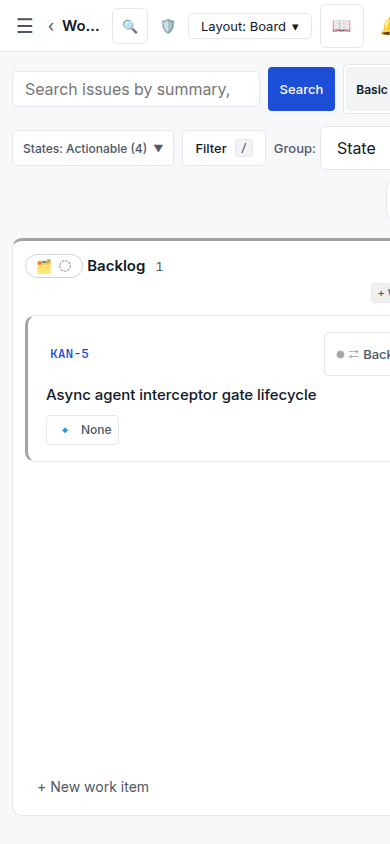
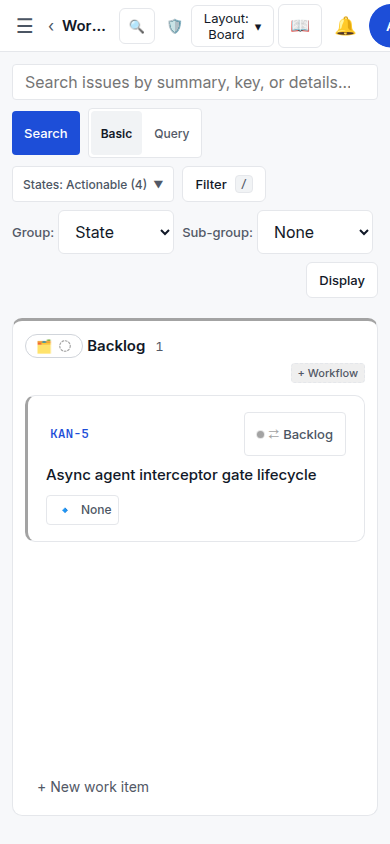
fix(board-ui): resolve 390x844 mobile horizontal overflow and drawer state select width

diff --git a/kanban/web/src/features/views/filterBulk.css b/kanban/web/src/features/views/filterBulk.css
@@ -946,6 +946,62 @@
   flex-shrink: 0;
 }
 
+@media (max-width: 767px) {
+  .filter-display-bar {
+    min-width: 0;
+    max-width: 100%;
+    width: 100%;
+    box-sizing: border-box;
+    flex-wrap: wrap;
+    gap: var(--space-2, 8px);
+  }
+
+  .filter-search-form {
+    min-width: 0;
+    max-width: 100%;
+    width: 100%;
+    flex: 1 1 100%;
+    flex-wrap: wrap;
+    box-sizing: border-box;
+    gap: var(--space-1, 4px);
+  }
+
+  .filter-search-form .navigator-search-input,
+  .filter-search-form .navigator-query-input {
+    min-width: 0;
+    width: 100%;
+    flex: 1 1 100%;
+    box-sizing: border-box;
+  }
+
+  .filter-controls-group {
+    min-width: 0;
+    max-width: 100%;
+    width: 100%;
+    flex-wrap: wrap;
+    box-sizing: border-box;
+    gap: var(--space-2, 8px);
+  }
+
+  .filter-controls-group > * {
+    min-width: 0;
+    max-width: 100%;
+    flex-shrink: 1;
+  }
+
+  .filter-axis-select-wrap {
+    min-width: 0;
+    max-width: 100%;
+    flex-wrap: wrap;
+  }
+
+  .filter-axis-select {
+    min-width: 0;
+    max-width: 100%;
+    box-sizing: border-box;
+  }
+}
+
 @media (max-width: 640px) {
   .filter-search-form {
     flex-wrap: wrap;

diff --git a/kanban/web/src/features/board/board.css b/kanban/web/src/features/board/board.css
@@ -111,12 +111,40 @@
 }
 
 @media (max-width: 767px) {
-  .board-column {
-    scroll-snap-align: start;
-    flex: 0 0 calc(100% - 0px);
+  .kb-main-canvas:has(.board-canvas) {
+    padding: 12px;
+    min-width: 0;
+    max-width: 100vw;
     width: 100%;
+    box-sizing: border-box;
+    overflow-x: hidden;
+  }
+
+  .board-canvas {
     min-width: 0;
     max-width: 100%;
+    width: 100%;
+    box-sizing: border-box;
+    overflow-x: hidden;
+  }
+
+  .board-lanes {
+    scroll-snap-type: x proximity;
+    min-width: 0;
+    max-width: 100%;
+    width: 100%;
+    box-sizing: border-box;
+    overflow-x: auto;
+    -webkit-overflow-scrolling: touch;
+  }
+
+  .board-column {
+    scroll-snap-align: start;
+    flex: 0 0 min(100%, calc(100vw - 24px));
+    width: min(100%, calc(100vw - 24px));
+    min-width: 0;
+    max-width: min(100%, calc(100vw - 24px));
+    box-sizing: border-box;
   }
 }
 

diff --git a/kanban/web/src/app/Topbar.css b/kanban/web/src/app/Topbar.css
@@ -425,6 +425,33 @@
   }
 }
 
+@media (max-width: 767px) {
+  .kb-topbar,
+  .topbar {
+    min-width: 0;
+    max-width: 100vw;
+    width: 100%;
+    box-sizing: border-box;
+    padding: 0 var(--space-2, 8px);
+    gap: 4px;
+    overflow: visible;
+  }
+
+  .kb-topbar-left {
+    min-width: 0;
+    flex: 0 1 auto;
+    overflow: hidden;
+  }
+
+  .kb-topbar-right,
+  .topbar__right {
+    min-width: 0;
+    flex: 0 1 auto;
+    flex-shrink: 1;
+    gap: 4px;
+  }
+}
+
 @media (max-width: 640px) {
   .kb-topbar,
   .topbar {

diff --git a/kanban/web/src/app/AppShell.css b/kanban/web/src/app/AppShell.css
@@ -113,10 +113,23 @@
   }
 }
 
-/* Mobile Canvas Padding Exception (<= 767px) */
+/* Mobile Canvas Padding Exception & Constraint (<= 767px) */
 @media (max-width: 767px) {
+  .kb-app-shell {
+    min-width: 0;
+    max-width: 100vw;
+    width: 100%;
+    box-sizing: border-box;
+    overflow-x: hidden;
+  }
+
   .kb-main-canvas {
-    padding: 16px;
+    padding: 12px;
+    min-width: 0;
+    max-width: 100vw;
+    width: 100%;
+    box-sizing: border-box;
+    overflow-x: hidden;
   }
 }
 

diff --git a/kanban/web/src/features/drawer-rail/PropertiesRail.css b/kanban/web/src/features/drawer-rail/PropertiesRail.css
@@ -61,12 +61,16 @@
 }
 
 .prop-row[data-prop="state"] .prop-row__select {
-  min-width: 108px;
+  min-width: 130px;
   max-width: 100%;
-  width: 100%;
+  width: auto;
   flex: 1 1 auto;
-  padding-right: 20px;
+  padding: 2px 6px;
   box-sizing: border-box;
+}
+
+#prop-state-select {
+  min-width: 130px;
 }
 
 .prop-row__select:focus {

diff --git a/kanban/web/src/features/drawer/IssueSurface.css b/kanban/web/src/features/drawer/IssueSurface.css
@@ -395,11 +395,11 @@
 }
 
 .surface__rail .prop-row[data-prop="state"] .prop-row__select {
-  min-width: 108px;
+  min-width: 130px;
   max-width: 100%;
-  width: 100%;
+  width: auto;
   flex: 1 1 auto;
-  padding-right: 20px;
+  padding: 2px 6px;
   box-sizing: border-box;
 }
 .issue-header__new-tab-link {
